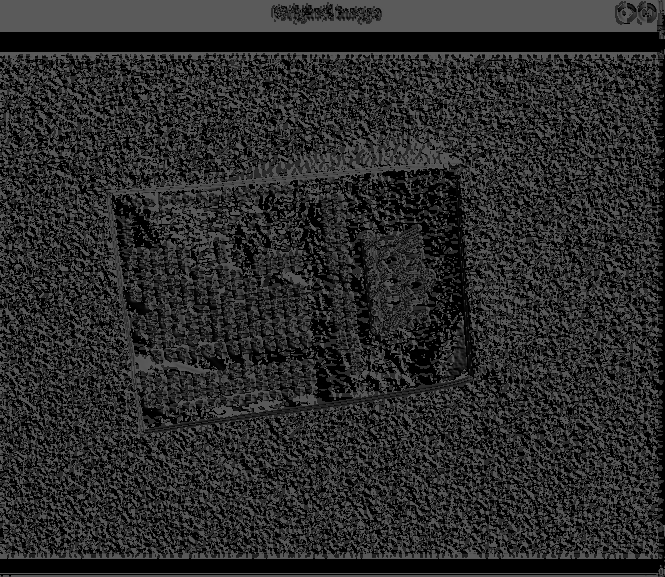
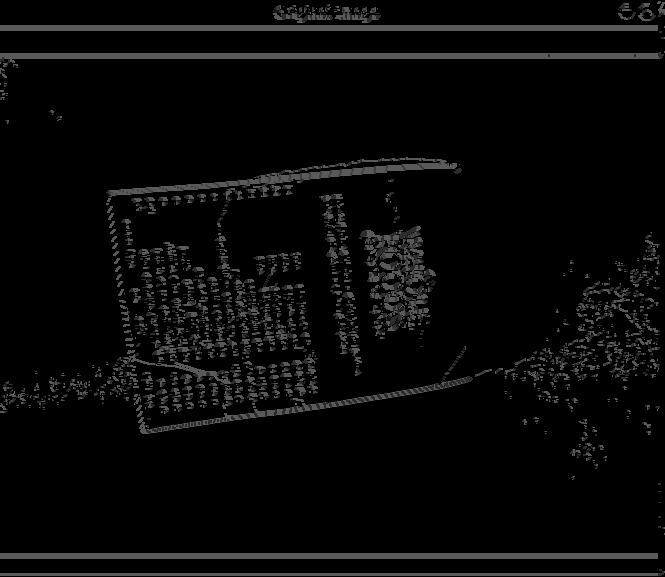
non max suppression

diff --git a/non_max_suppresion.py b/non_max_suppresion.py
@@ -1,4 +1,50 @@
+import numpy as np
+import cv2 as cv
+import matplotlib.pyplot as plt
+from gaussfilter import GaussianFilter
+from sobelfilter import SobelFilter
 
 
-def non_max_suppression(img,Theta):
+def non_max_suppression(img,Angle):
+    H, W = img.shape
+    Z = np.zeros((H,W),dtype=np.int32)
+
+    #Angle[Angle < 0] +=180
+
+    for i in range(1,H-1):
+        for j in range(1,W-1):
+            #angulo 0
+            p=255
+            q=255
+            if (0<=Angle[i,j]<22.5) or (157.5<=Angle[i,j]<=180) or (
+                    -22.5<=Angle[i,j]<0) or (-180<=Angle[i,j]<-157.5):
+                p = img[i,j+1]
+                q = img[i,j-1]
+            #angulo 45
+            elif (22.5 <= Angle[i,j]<67.5) or (-157.5<=Angle[i,j]<-112.5):
+                p = img[i+1,j+1]
+                q = img[i-1,j-1]
+            #angulo 90
+            elif (67.5<=Angle[i,j]<112.5) or (-112.5<=Angle[i,j]<-67.5):
+                p = img[i+1,j]
+                q = img[i-1,j]
+            #angulo 135
+            elif (112.5 <= Angle[i,j]<157.5)  or (-67.5<=Angle[i,j]<-22.5):
+                p = img[i+1,j-1]
+                q = img[i-1,j+1]
+
+            #non max suppression
+            if (img[i,j] >= p) and (img[i,j]>=q):
+                Z[i,j] = img[i,j]
+            else:
+                Z[i,j] = 0
+    return Z
+
+if __name__=='__main__':
+    img = cv.imread('img1.png',0)
+    Gaussimg = GaussianFilter(img,5,15)
+    Gimg , Theta = SobelFilter(Gaussimg)
+
+    NMSimg = non_max_suppression(Gimg,Theta)
+    cv.imwrite('nonmax.png',NMSimg.astype(np.uint8))
 

diff --git a/gaussfilter.py b/gaussfilter.py
@@ -36,16 +36,12 @@ def convolution(oldimg,kernel):
     return img_conv[h:h_end,w:w_end]
 
 def GaussianFunction(sigma,x,y):
-    if sigma==0:
-        return 0
-    num = np.exp(-((x*x) + (y*y))/(2*(sigma*sigma)))
-    den = 2*np.pi*(sigma*sigma)
-    return (1/den)*num
+    num = np.exp(-(((x**2) + (y**2))/(2.0*(sigma**2))))
+    den = 2.0*np.pi*(sigma**2)
+    return num/den
 
 
 def GaussianFilter(img,kernel_size=5,sigma=1):
-    if sigma == 0:
-        return img
     kernel = np.zeros((kernel_size,kernel_size),dtype=np.float32)
     m = n = kernel_size//2
 
@@ -53,8 +49,7 @@ def GaussianFilter(img,kernel_size=5,sigma=1):
         for y in range(-n,n+1):
             kernel[x+2,y+2] = GaussianFunction(sigma,x,y)
 
-    kernel /= np.sum(kernel)
-
+    print(kernel)
     """
     img_filt = np.zeros_like(img, dtype=np.float32)
     if len(img.shape)==2:
@@ -67,12 +62,9 @@ def GaussianFilter(img,kernel_size=5,sigma=1):
 
 if __name__=='__main__':
     img =cv.imread('img1.png',0)
-    img=cv.cvtColor(img,cv.COLOR_BGR2GRAY) 
-    Gimg = GaussianFilter(img,5,2)
-    #Gim =cv.GaussianBlur(img,(5,5),2)
-
-    Cimg = cv.Canny(Gimg,100,200)
-
+    Gimg = GaussianFilter(img,5,1)
+    Gim =cv.GaussianBlur(img,(5,5),1)
+    #Cimg = cv.Canny(Gimg,100,200)
     cv.imwrite('gimg.png',Gimg)
-    cv.imwrite('Cimg.png',Cimg)
+    cv.imwrite('Cimg.png',Gim)
 

diff --git a/sobelfilter.py b/sobelfilter.py
@@ -5,24 +5,26 @@ from gaussfilter import GaussianFilter
 
 #img en scala grises
 def SobelFilter(img):
-    Gx = np.array([[1,0,-1],[2,0,-2],[1,0,-1]], np.float32)
-    Gy = np.array([[1,2,1],[0,0,0],[-1,-2,-1]], np.float32)
+    Gx = np.array([[1,0,-1],[2,0,-2],[1,0,-1]],dtype=np.float32)
+    Gy = np.array([[+1,+2,+1],[0,0,0],[-1,-2,-1]],dtype=np.float32)
     
     G_x = convolve(img,Gx)
     G_y = convolve(img,Gy)
     
-    #G = np.sqrt(np.power(G_x,2) + np.power(G_y,2))
-    G = np.hypot(G_x,G_y)
+    G = np.sqrt(G_x**2 + G_y**2)
+    #G = np.hypot(G_x,G_y)
 
-    G = G/G.max()*255
-    Theta = np.arctan2(G_y,G_x) * 180 /np.pi
+    G = G / G.max() * 255
+    Theta = np.arctan2(G_y,G_x) #* 180. /np.pi
+    Theta = np.rad2deg(Theta)
     return G , Theta
 
 
 if __name__=='__main__':
     img = cv.imread('img1.png',0)
-    Gaussimg = GaussianFilter(img,5,1)
+    Gaussimg = GaussianFilter(img,5,11)
     Gimg, Theta = SobelFilter(Gaussimg)
 
+    cv.imwrite('Gaussimg.png',Gaussimg)
     cv.imwrite('Gradiente.png',Gimg.astype(np.uint8))
-    cv.imwrite('Theta.png',Theta.astype(np.uint8))
+    cv.imwrite('Theta.png',Theta.astype(np.int8))
